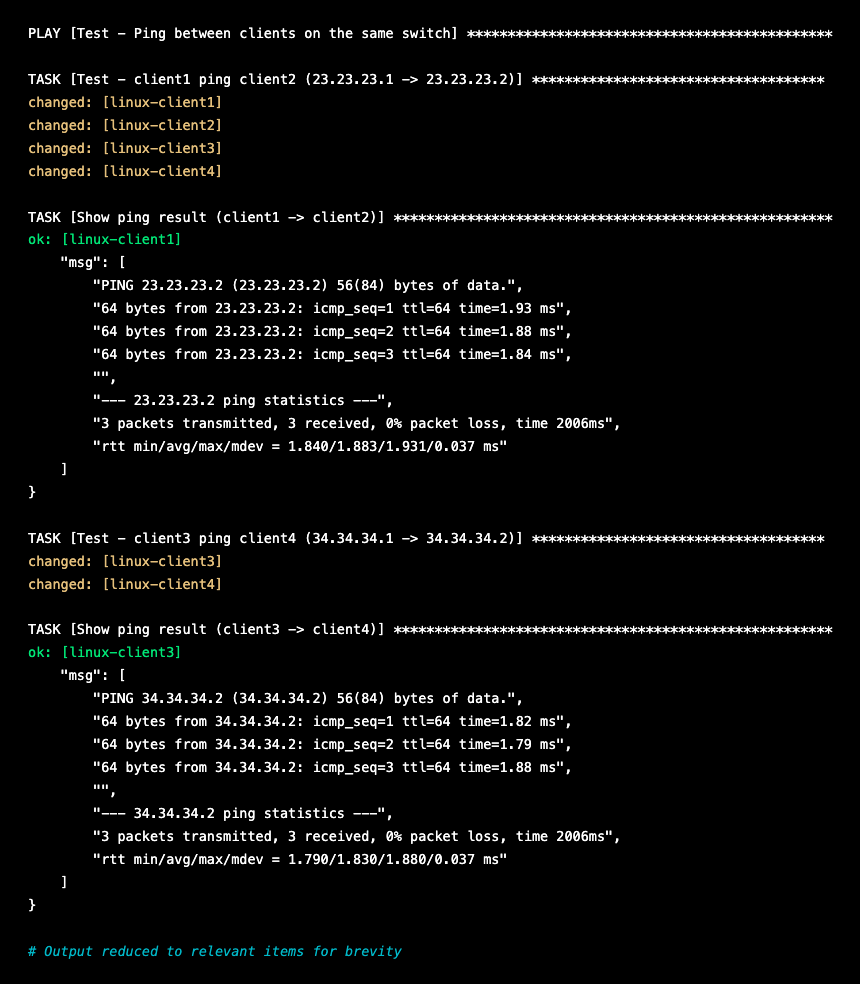
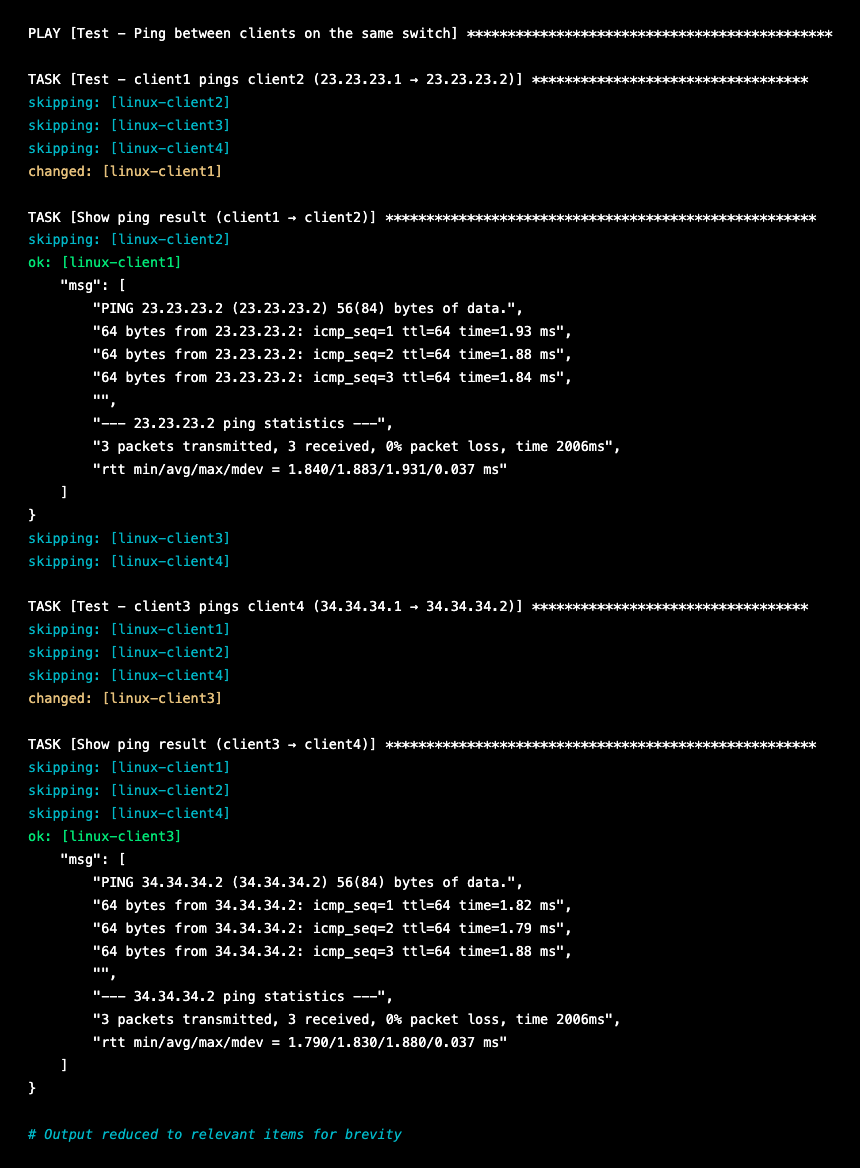
Fix task1 ping output images: add skipping: lines, correct task names with arrow

diff --git a/images/task1-ping-output.html b/images/task1-ping-output.html
@@ -26,6 +26,7 @@
   .wh  { color: #ffffff; }
   .ok  { color: #00e676; }
   .chg { color: #e5c07b; }
+  .skp { color: #00b8c8; }
   .cm  { color: #00b8c8; font-style: italic; }
 </style>
 </head>
@@ -33,41 +34,49 @@
 <div class="terminal">
 <pre><span class="wh">PLAY [Test - Ping between clients on the same switch] *********************************************</span>
 
-<span class="wh">TASK [Test - client1 ping client2 (23.23.23.1 -&gt; 23.23.23.2)] ************************************</span>
+<span class="wh">TASK [Test - client1 pings client2 (23.23.23.1 &#x2192; 23.23.23.2)] **********************************</span>
+<span class="skp">skipping: [linux-client2]</span>
+<span class="skp">skipping: [linux-client3]</span>
+<span class="skp">skipping: [linux-client4]</span>
 <span class="chg">changed: [linux-client1]</span>
-<span class="chg">changed: [linux-client2]</span>
-<span class="chg">changed: [linux-client3]</span>
-<span class="chg">changed: [linux-client4]</span>
 
-<span class="wh">TASK [Show ping result (client1 -&gt; client2)] ******************************************************</span>
+<span class="wh">TASK [Show ping result (client1 &#x2192; client2)] *****************************************************</span>
+<span class="skp">skipping: [linux-client2]</span>
 <span class="ok">ok: [linux-client1]</span> =&gt; {
     <span class="wh">"msg": [</span>
         <span class="wh">"PING 23.23.23.2 (23.23.23.2) 56(84) bytes of data.",</span>
-        <span class="wh">"64 bytes from 23.23.23.2: icmp_seq=1 ttl=64 time=1.93 ms",</span>
-        <span class="wh">"64 bytes from 23.23.23.2: icmp_seq=2 ttl=64 time=1.88 ms",</span>
-        <span class="wh">"64 bytes from 23.23.23.2: icmp_seq=3 ttl=64 time=1.84 ms",</span>
+        <span class="wh">"64 bytes from 23.23.23.2: icmp_seq=1 ttl=64 time=7.84 ms",</span>
+        <span class="wh">"64 bytes from 23.23.23.2: icmp_seq=2 ttl=64 time=1.83 ms",</span>
+        <span class="wh">"64 bytes from 23.23.23.2: icmp_seq=3 ttl=64 time=1.96 ms",</span>
         <span class="wh">"",</span>
         <span class="wh">"--- 23.23.23.2 ping statistics ---",</span>
-        <span class="wh">"3 packets transmitted, 3 received, 0% packet loss, time 2006ms",</span>
-        <span class="wh">"rtt min/avg/max/mdev = 1.840/1.883/1.931/0.037 ms"</span>
+        <span class="wh">"3 packets transmitted, 3 received, 0% packet loss, time 2004ms",</span>
+        <span class="wh">"rtt min/avg/max/mdev = 1.829/3.877/7.843/2.804 ms"</span>
     <span class="wh">]</span>
 <span class="wh">}</span>
+<span class="skp">skipping: [linux-client3]</span>
+<span class="skp">skipping: [linux-client4]</span>
 
-<span class="wh">TASK [Test - client3 ping client4 (34.34.34.1 -&gt; 34.34.34.2)] ************************************</span>
+<span class="wh">TASK [Test - client3 pings client4 (34.34.34.1 &#x2192; 34.34.34.2)] **********************************</span>
+<span class="skp">skipping: [linux-client1]</span>
+<span class="skp">skipping: [linux-client2]</span>
+<span class="skp">skipping: [linux-client4]</span>
 <span class="chg">changed: [linux-client3]</span>
-<span class="chg">changed: [linux-client4]</span>
 
-<span class="wh">TASK [Show ping result (client3 -&gt; client4)] ******************************************************</span>
+<span class="wh">TASK [Show ping result (client3 &#x2192; client4)] *****************************************************</span>
+<span class="skp">skipping: [linux-client1]</span>
+<span class="skp">skipping: [linux-client2]</span>
+<span class="skp">skipping: [linux-client4]</span>
 <span class="ok">ok: [linux-client3]</span> =&gt; {
     <span class="wh">"msg": [</span>
         <span class="wh">"PING 34.34.34.2 (34.34.34.2) 56(84) bytes of data.",</span>
-        <span class="wh">"64 bytes from 34.34.34.2: icmp_seq=1 ttl=64 time=1.82 ms",</span>
-        <span class="wh">"64 bytes from 34.34.34.2: icmp_seq=2 ttl=64 time=1.79 ms",</span>
-        <span class="wh">"64 bytes from 34.34.34.2: icmp_seq=3 ttl=64 time=1.88 ms",</span>
+        <span class="wh">"64 bytes from 34.34.34.2: icmp_seq=1 ttl=64 time=5.03 ms",</span>
+        <span class="wh">"64 bytes from 34.34.34.2: icmp_seq=2 ttl=64 time=1.88 ms",</span>
+        <span class="wh">"64 bytes from 34.34.34.2: icmp_seq=3 ttl=64 time=2.37 ms",</span>
         <span class="wh">"",</span>
         <span class="wh">"--- 34.34.34.2 ping statistics ---",</span>
-        <span class="wh">"3 packets transmitted, 3 received, 0% packet loss, time 2006ms",</span>
-        <span class="wh">"rtt min/avg/max/mdev = 1.790/1.830/1.880/0.037 ms"</span>
+        <span class="wh">"3 packets transmitted, 3 received, 0% packet loss, time 2002ms",</span>
+        <span class="wh">"rtt min/avg/max/mdev = 1.882/3.096/5.034/1.384 ms"</span>
     <span class="wh">]</span>
 <span class="wh">}</span>
 

diff --git a/images/task1-remediate-ping-output.html b/images/task1-remediate-ping-output.html
@@ -26,6 +26,7 @@
   .wh  { color: #ffffff; }
   .ok  { color: #00e676; }
   .chg { color: #e5c07b; }
+  .skp { color: #00b8c8; }
   .cm  { color: #00b8c8; font-style: italic; }
 </style>
 </head>
@@ -33,13 +34,14 @@
 <div class="terminal">
 <pre><span class="wh">PLAY [Test - Ping between clients on the same switch] *********************************************</span>
 
-<span class="wh">TASK [Test - client1 ping client2 (23.23.23.1 -&gt; 23.23.23.2)] ************************************</span>
+<span class="wh">TASK [Test - client1 pings client2 (23.23.23.1 &#x2192; 23.23.23.2)] **********************************</span>
+<span class="skp">skipping: [linux-client2]</span>
+<span class="skp">skipping: [linux-client3]</span>
+<span class="skp">skipping: [linux-client4]</span>
 <span class="chg">changed: [linux-client1]</span>
-<span class="chg">changed: [linux-client2]</span>
-<span class="chg">changed: [linux-client3]</span>
-<span class="chg">changed: [linux-client4]</span>
 
-<span class="wh">TASK [Show ping result (client1 -&gt; client2)] ******************************************************</span>
+<span class="wh">TASK [Show ping result (client1 &#x2192; client2)] *****************************************************</span>
+<span class="skp">skipping: [linux-client2]</span>
 <span class="ok">ok: [linux-client1]</span> =&gt; {
     <span class="wh">"msg": [</span>
         <span class="wh">"PING 23.23.23.2 (23.23.23.2) 56(84) bytes of data.",</span>
@@ -52,12 +54,19 @@
         <span class="wh">"rtt min/avg/max/mdev = 1.840/1.883/1.931/0.037 ms"</span>
     <span class="wh">]</span>
 <span class="wh">}</span>
+<span class="skp">skipping: [linux-client3]</span>
+<span class="skp">skipping: [linux-client4]</span>
 
-<span class="wh">TASK [Test - client3 ping client4 (34.34.34.1 -&gt; 34.34.34.2)] ************************************</span>
+<span class="wh">TASK [Test - client3 pings client4 (34.34.34.1 &#x2192; 34.34.34.2)] **********************************</span>
+<span class="skp">skipping: [linux-client1]</span>
+<span class="skp">skipping: [linux-client2]</span>
+<span class="skp">skipping: [linux-client4]</span>
 <span class="chg">changed: [linux-client3]</span>
-<span class="chg">changed: [linux-client4]</span>
 
-<span class="wh">TASK [Show ping result (client3 -&gt; client4)] ******************************************************</span>
+<span class="wh">TASK [Show ping result (client3 &#x2192; client4)] *****************************************************</span>
+<span class="skp">skipping: [linux-client1]</span>
+<span class="skp">skipping: [linux-client2]</span>
+<span class="skp">skipping: [linux-client4]</span>
 <span class="ok">ok: [linux-client3]</span> =&gt; {
     <span class="wh">"msg": [</span>
         <span class="wh">"PING 34.34.34.2 (34.34.34.2) 56(84) bytes of data.",</span>
